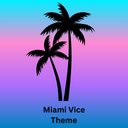
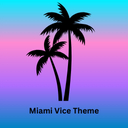
small color changes

Changed region(s): [[0.2188, 0.8125, 0.7812, 0.9688]]

diff --git a/README.md b/README.md
@@ -1,4 +1,4 @@
-# Miami Vice Vs Code Theme
+# Miami Vice VS Code Theme
 
 ![image of code colors](/./Images/screenshot.png)
 
